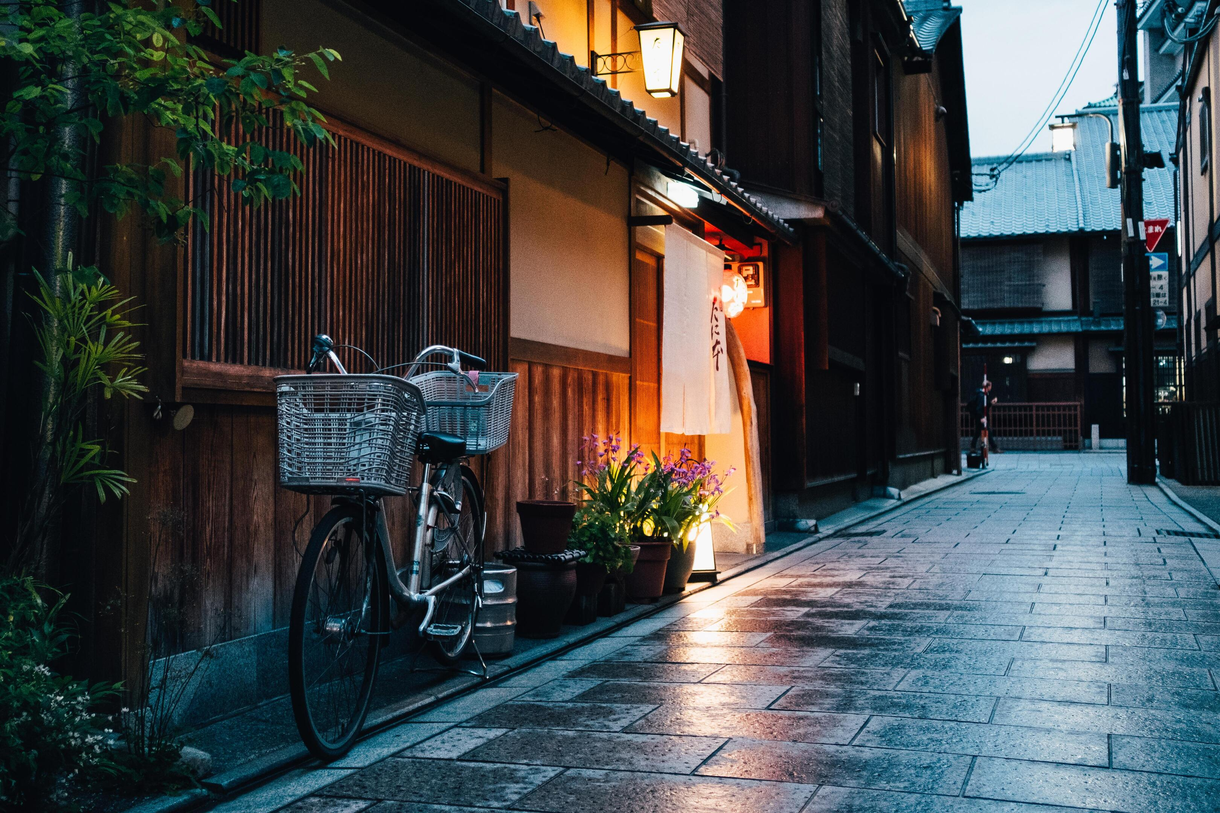
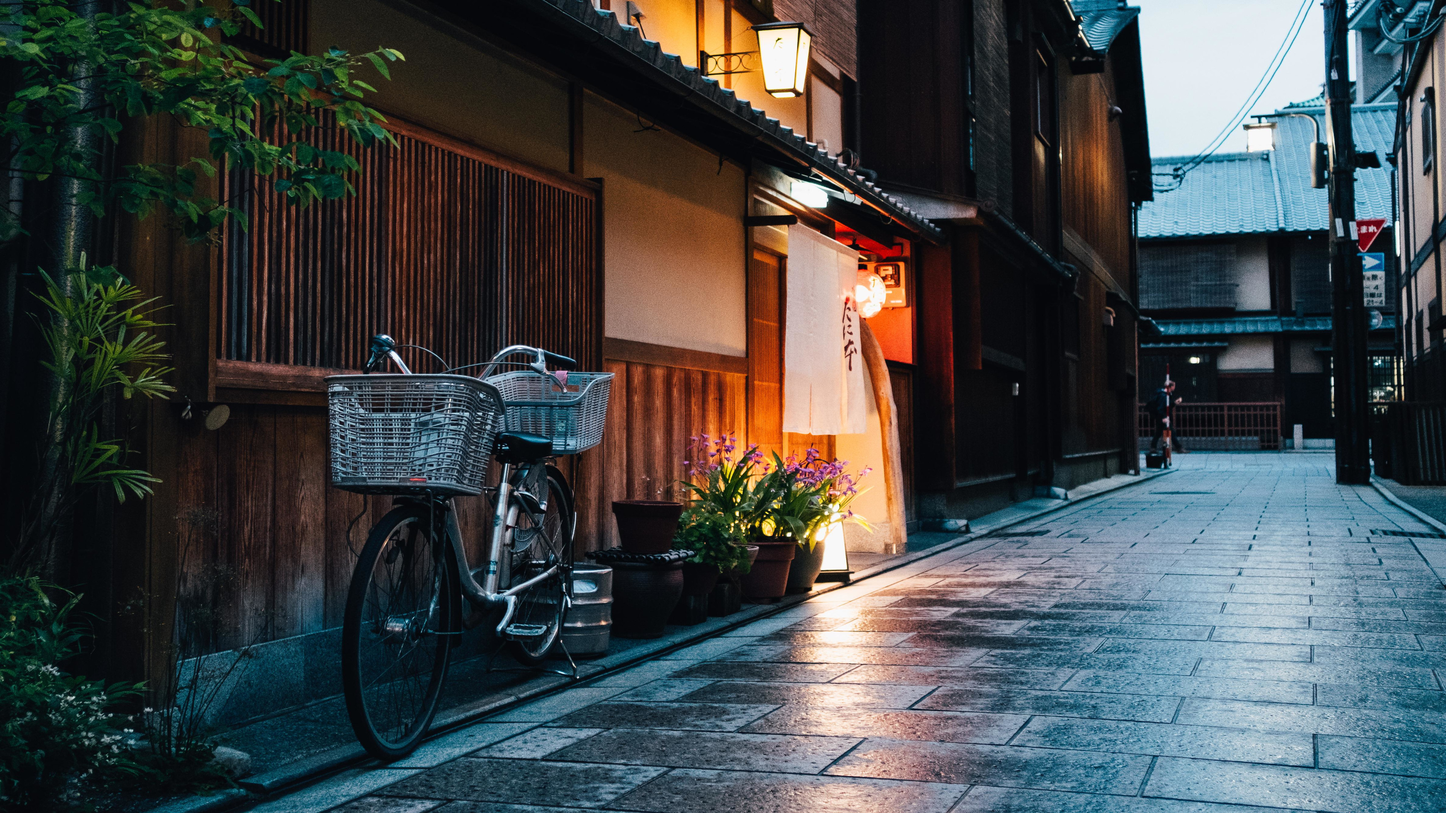
Added some wallpapers and authors, and fixed some resolutions

diff --git a/README.md b/README.md
@@ -262,6 +262,58 @@ Most of this wallpapers i have got from [r/wallpapers](https://www.reddit.com/r/
 
 
 <details>
+<summary>Cátia Matos</summary>
+
+- [Pexels](https://www.pexels.com/@catiamatos)
+- [Darkroom](https://catiamatos.darkroom.tech/)
+- [Instagram](https://www.instagram.com/catia.matos/)
+
+    <details>
+    <summary>Wallpapers</summary>
+    
+    <a href="https://www.pexels.com/photo/green-leaves-1072179/">
+      <img src="./green-leaves-(4K).jpg" title="Green Leaves" width=600/>
+    </a>
+
+    </details>
+</details>
+
+
+<details>
+<summary>Troy Qian</summary>
+
+- [Unsplash](https://unsplash.com/@troyqian)
+- [Instagram](https://instagram.com/ycq_troy)
+
+    <details>
+    <summary>Wallpapers</summary>
+    
+    <a href="https://unsplash.com/photos/AHC2GEyBQFc">
+      <img src="./chalet-in-the-snow-(4K).jpg" title="Chalet in the snow" width=600/>
+    </a>
+
+    </details>
+</details>
+
+
+<details>
+<summary>Elias Tigiser</summary>
+
+- [Pexels](https://www.pexels.com/@elias-tigiser-411757)
+- [Instagram](https://www.instagram.com/elias_tigiser/)
+
+    <details>
+    <summary>Wallpapers</summary>
+    
+    <a href="https://www.pexels.com/photo/photo-of-fern-plants-2757549/">
+      <img src="./mystic-ferns-(4K).jpg" title="Photo of Fern Plants" width=600/>
+    </a>
+
+    </details>
+</details>
+
+
+<details>
 <summary>Dynamo2205</summary>
 
 - [Reddit](https://www.reddit.com/user/Dynamo2205/)
@@ -271,6 +323,37 @@ Most of this wallpapers i have got from [r/wallpapers](https://www.reddit.com/r/
     
     <a href="https://www.reddit.com/r/wallpaper/comments/ql4fk4/3840x2160_oc_cubes/">
       <img src="./cubes-(4K).jpg" title="Cubes" width=600/>
+    </a>
+
+    </details>
+</details>
+
+
+<details>
+<summary>ChingP</summary>
+
+- [Reddit](https://www.reddit.com/user/ChingP/)
+
+    <details>
+    <summary>Wallpapers</summary>
+    
+    <a href="https://www.reddit.com/r/japanpics/comments/6ac3zq/gion_after_rain_oc4751x3167/">
+      <img src="./rain-on-alley-(4K).jpg" title="Gion after rain" width=600/>
+    </a>
+
+    </details>
+</details>
+
+<details>
+<summary>CUtePOiSOn77</summary>
+
+- [Reddit](https://www.reddit.com/user/CUtePOiSOn77/)
+
+    <details>
+    <summary>Wallpapers</summary>
+    
+    <a href="https://www.reddit.com/r/glitch_art/comments/mv1hzu/skull_oc/">
+      <img src="./skull-(4K).jpg" title="Skull" width=600/>
     </a>
 
     </details>
